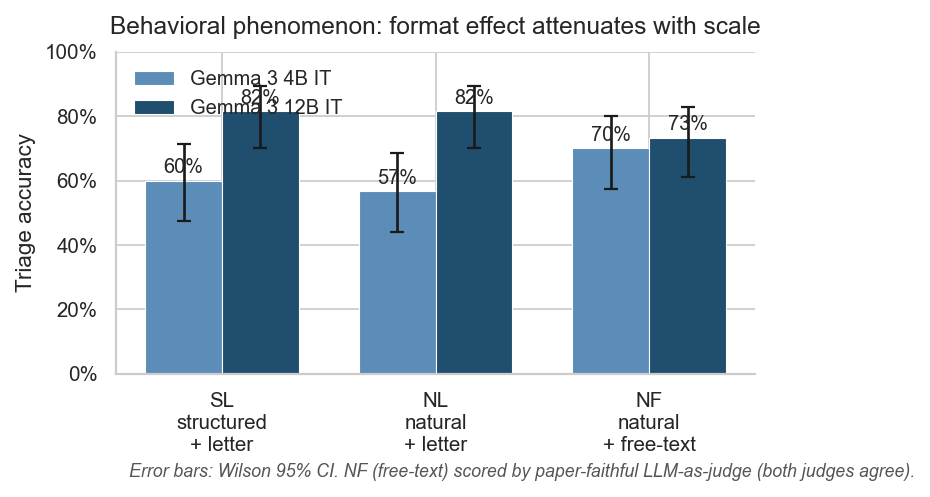
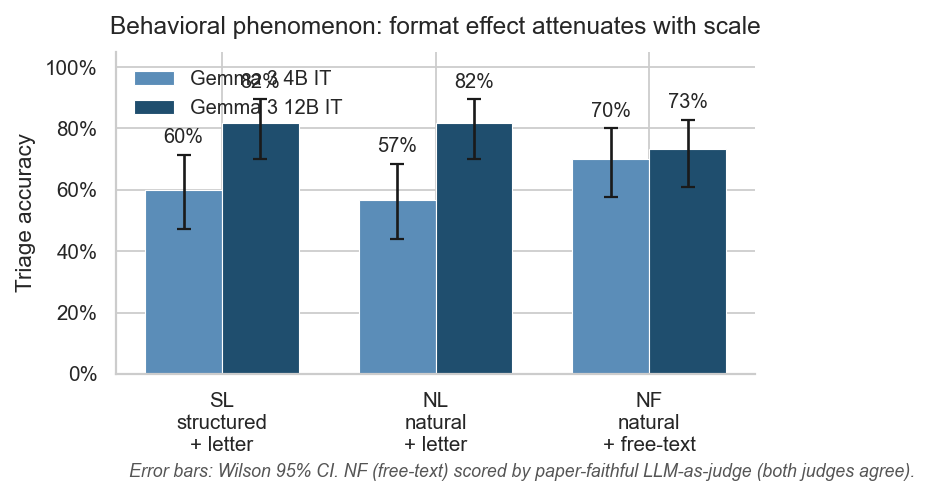
Polish fig1 and fig3 label collisions
fig1: percentage labels now placed above error bars, not on top of the
bar (previously collided with the upper-CI tick when accuracies were
high). y-axis ceiling raised to 1.05 to give room.

fig3 right panel: feature labels in the rank-percentile scatter use
collision-aware vertical offsets within each model column — labels
that would otherwise stack within ~6pp of each other are pushed up by
12 points with a thin gray connector arrow. Resolves the within-column
overlap (e.g., Gemma 12B's features 130/85/4773 which sit at 86/32/51%).

Cross-column visual proximity (e.g., Qwen 29074 at 89% vs Gemma 12B 130
at 86%) is still cosmetic but no longer ambiguous — the columns are
clearly separated and each label is anchored to its correct point.

diff --git a/make_figures.py b/make_figures.py
@@ -113,14 +113,15 @@ def fig1_behavioral():
         yerr_hi = [hi - a for a, hi in zip(accs, ci_his)]
         ax.bar(x + offset, accs, width, label=model_name, color=color,
                yerr=[yerr_lo, yerr_hi], capsize=3, edgecolor="white", linewidth=0.5)
-        for xi, acc in zip(x + offset, accs):
-            ax.text(xi, acc + 0.01, f"{acc:.0%}", ha="center", va="bottom",
+        for xi, acc, hi in zip(x + offset, accs, ci_his):
+            # Place label above the upper CI, not on top of the bar
+            ax.text(xi, hi + 0.025, f"{acc:.0%}", ha="center", va="bottom",
                     fontsize=9)
 
     ax.set_xticks(x)
     ax.set_xticklabels(cell_labels)
     ax.set_ylabel("Triage accuracy")
-    ax.set_ylim(0, 1.0)
+    ax.set_ylim(0, 1.05)
     ax.set_yticks(np.arange(0, 1.01, 0.2))
     ax.set_yticklabels([f"{int(t*100)}%" for t in np.arange(0, 1.01, 0.2)])
     ax.legend(loc="upper left", frameon=False, fontsize=9)
@@ -312,11 +313,23 @@ def fig3_direction():
     sns.stripplot(data=df, x="model", y="rank_pct", hue="model",
                   size=10, ax=ax2, alpha=0.85, palette=["#5b8db8", "#3a76a8", "#1f4e6e"],
                   legend=False)
-    # Annotate features
-    for _, row in df.iterrows():
-        ax2.annotate(row["feature"], xy=(row["model"], row["rank_pct"]),
-                     xytext=(8, 0), textcoords="offset points", fontsize=7,
-                     color="#444")
+    # Annotate features with per-model collision-aware offsets
+    for model in df["model"].unique():
+        sub = df[df["model"] == model].sort_values("rank_pct")
+        last_y = -100.0
+        for _, row in sub.iterrows():
+            y = row["rank_pct"]
+            # If too close to previous label, offset upward by a fixed pixel amount
+            if y - last_y < 6:
+                offset_y = 12  # push label up
+            else:
+                offset_y = 0
+            last_y = max(last_y, y) + (1.0 if offset_y else 0.0)
+            ax2.annotate(row["feature"], xy=(row["model"], y),
+                         xytext=(8, offset_y), textcoords="offset points",
+                         fontsize=7, color="#444",
+                         arrowprops=dict(arrowstyle="-",
+                                         color="#bbb", lw=0.4) if offset_y else None)
     ax2.axhline(50, color="#999", linestyle="--", alpha=0.7, linewidth=1)
     ax2.set_ylim(-2, 102)
     ax2.set_ylabel("Rank percentile of medical features\nin |alignment| with (NL−NF) max-pool")
